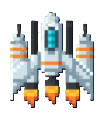
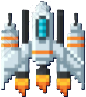
game_data.ship_lv 기반으로 upgrade에서 레벨에 비례해 우주선 이미지 변경

diff --git a/spaceship.py b/spaceship.py
@@ -1,4 +1,6 @@
 from pico2d import *
+
+import game_data
 from state_machine import StateMachine
 import math
 import game_framework
@@ -45,6 +47,9 @@ class Spaceship:
 
         self.speed = 300
         self.image = load_image('images/spaceship_level_1.png')
+        self.image2 = load_image('images/spaceship_level_2.png')
+        self.image3 = load_image('images/spaceship_level_3.png')
+
         self.IDLE, self.MOVE = Idle(self), Move(self)
         # 회전 각도 (라디안)
         self.angle = math.radians(0)  # 기본적으로 위쪽 바라봄
@@ -84,7 +89,12 @@ class Spaceship:
         draw_angle = self.angle - math.pi / 2
 
         # 우주선 회전해서 그림
-        self.image.rotate_draw(draw_angle, self.x, self.y, 70, 70)
+        if game_data.ship_lv == 1:
+            self.image.rotate_draw(draw_angle, self.x, self.y, 70, 70)
+        elif game_data.ship_lv == 2:
+            self.image2.rotate_draw(draw_angle, self.x, self.y, 70, 70)
+        elif game_data.ship_lv == 3:
+            self.image3.rotate_draw(draw_angle, self.x, self.y, 70, 70)
 
         # 드릴 위치 계산 (보정된 각도 기준)
         drill_x = self.x + math.cos(self.angle) * self.drill_offset

diff --git a/spaceship_game.py b/spaceship_game.py
@@ -30,6 +30,8 @@ class Spaceship:
         self.camera_y = self.world_y - SCREEN_H // 2
 
         self.image = load_image('images/spaceship_level_1.png')
+        self.image2 = load_image('images/spaceship_level_2.png')
+        self.image3 = load_image('images/spaceship_level_3.png')
 
 
         self.hp = game_data.hp + game_data.heart
@@ -147,9 +149,12 @@ class Spaceship:
         screen_y = self.world_y - self.camera_y
 
         # world의 top/bottom에서는 screen_y가 고정에서 벗어남
-        self.image.rotate_draw(self.angle - math.pi/2,
-                               screen_x, screen_y,
-                               70, 70)
+        if game_data.ship_lv == 1:
+            self.image.rotate_draw(self.angle - math.pi/2, screen_x, screen_y, 70, 70)
+        elif game_data.ship_lv == 2:
+            self.image2.rotate_draw(self.angle - math.pi/2, screen_x, screen_y, 70, 70)
+        elif game_data.ship_lv == 3:
+            self.image3.rotate_draw(self.angle - math.pi/2, screen_x, screen_y, 70, 70)
 
         # Drill draw
         drill_world_x = self.world_x + math.cos(self.angle) * self.drill_offset

diff --git a/main.py b/main.py
@@ -7,9 +7,9 @@ game_framework.run(start_mode)
 close_canvas()
 
 #해야할거
-#1.우주선 레벨에 따라 우주선 이미지 바꾸기
+#clear : 1.우주선 레벨에 따라 우주선 이미지 바꾸기
 #2.드릴 레벨에 따라 드릴 이미지 바꾸기
-###3.광물 체력 상태에따라 광물 이미지 바꾸기 ( 깨짐 정도 시각적 표현 )
+#clear : 3.광물 체력 상태에따라 광물 이미지 바꾸기 ( 깨짐 정도 시각적 표현 )
 #4.스테이지 클리어 시 stage 에서 클리어한 행성 이미지 바꾸기
 #5.게임 사운드 추가
 #6 2스테이지 추가 시간남으면
